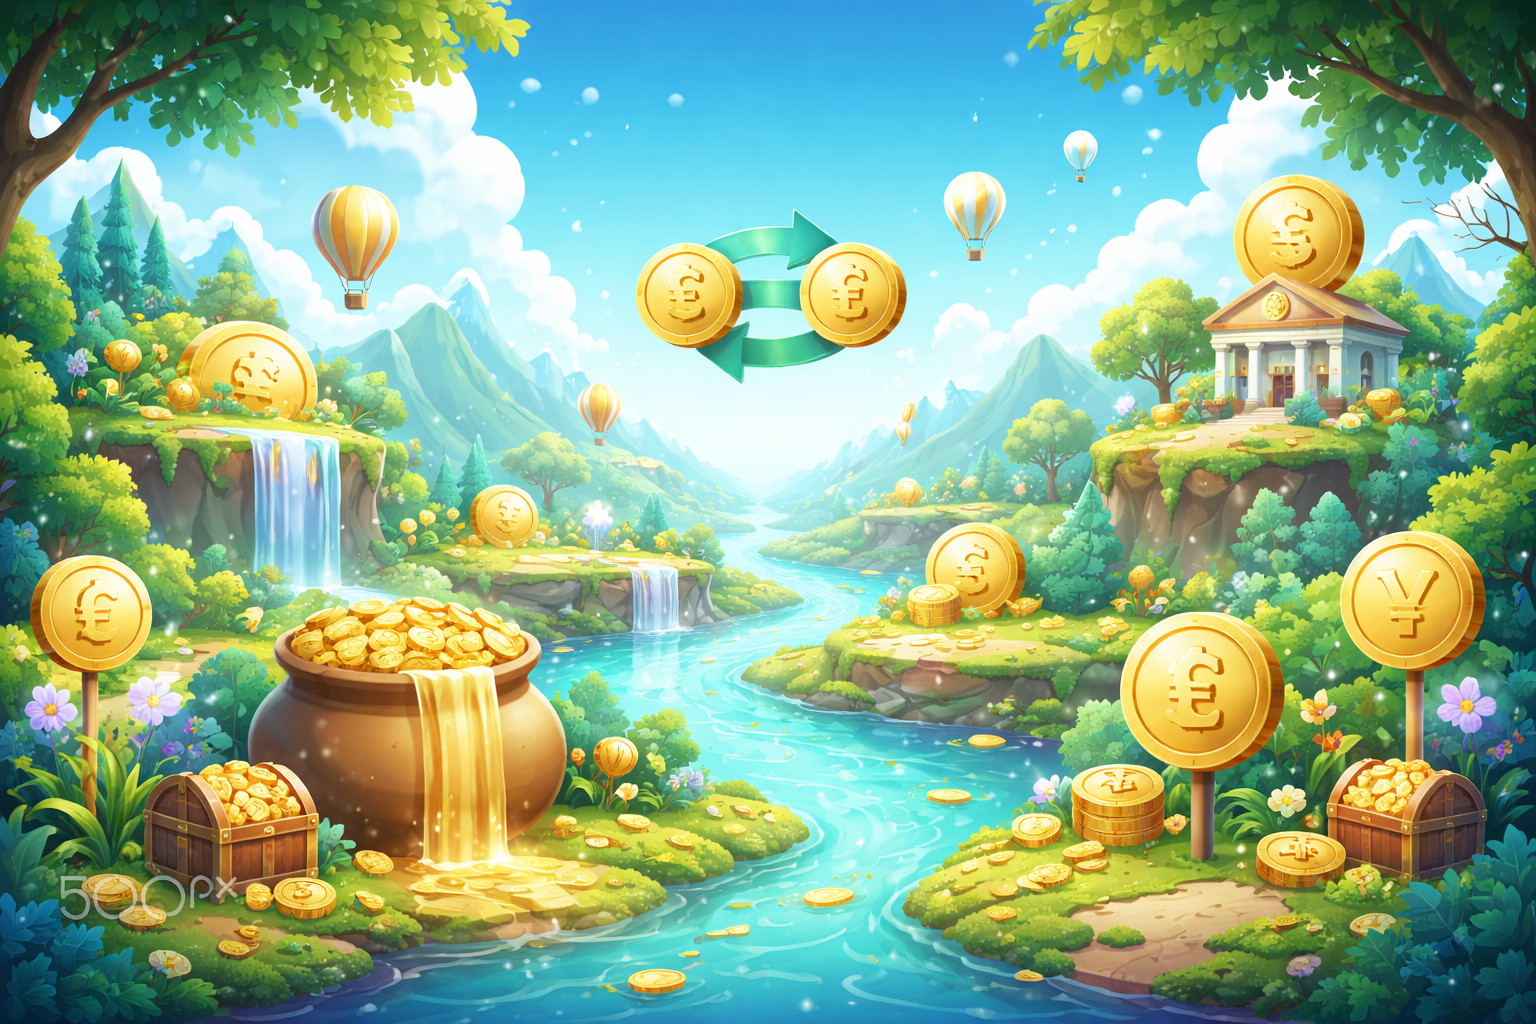
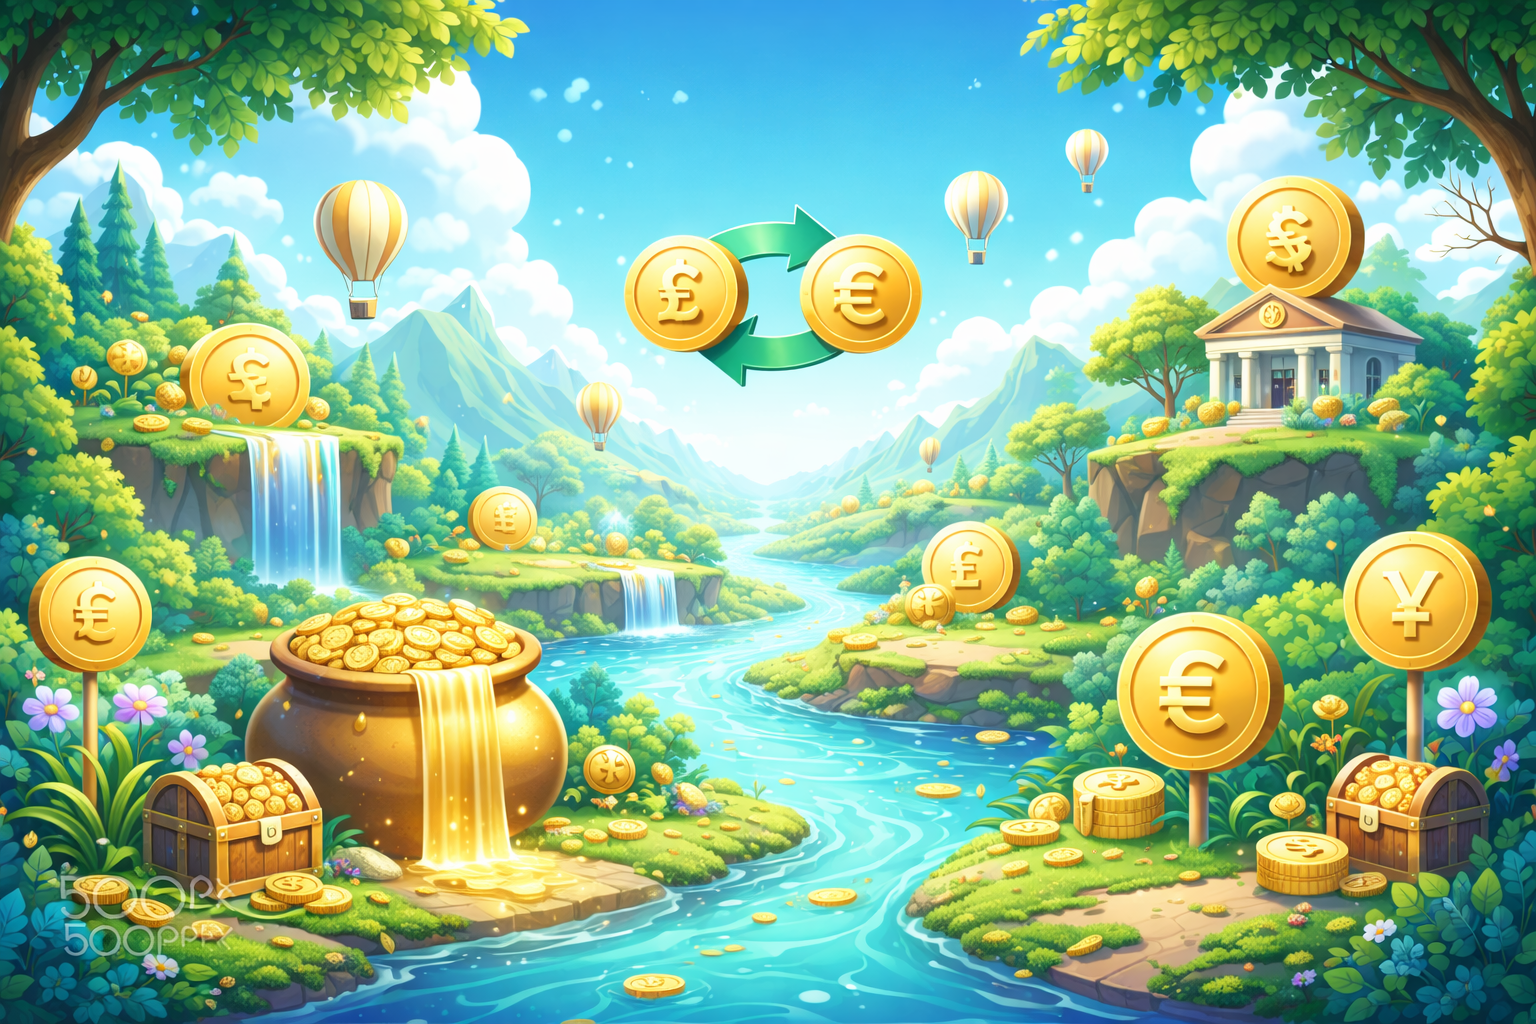
Wise affiliate

diff --git a/scripts.js b/scripts.js
@@ -41,7 +41,7 @@ let currencies = [
   ["AUD - Australian Dollar", "au", "AUD"],
   ["AWG - Aruban Florin", "aw", "AWG"],
   ["AZN - Azerbaijani Manat", "az", "AZN"],
-  ["BAM - Bosnia-Herzegovina Convertible Mark", "ba", "BAM"],
+  ["BAM - Bosnia-Herz. Conv. Mark", "ba", "BAM"],
   ["BBD - Barbadian Dollar", "bb", "BBD"],
   ["BDT - Bangladeshi Taka", "bd", "BDT"],
   ["BGN - Bulgarian Lev", "bg", "BGN"],
@@ -451,10 +451,28 @@ const AFFILIATE_CONFIG = {
   // Add more as you get affiliate partnerships
 };
 
+// Build Wise affiliate link with deeplink for dynamic currency and amount
+function buildWiseAffiliateLink(sourceCurrency, targetCurrency, amount) {
+  // The actual Wise page you want to send users to
+  const wiseDestination = `https://wise.com/send?sourceCurrency=${sourceCurrency}&targetCurrency=${targetCurrency}&sourceAmount=${amount}`;
+
+  // Your FULL Partnerize affiliate link
+  const affiliateBase = "https://wise.prf.hn/click/camref:1101l3RA2L";
+
+  // Encode the destination URL for the deeplink parameter
+  const encodedDestination = encodeURIComponent(wiseDestination);
+
+  // Add pubref to track that this came from your comparison tool
+  const pubref = `comparison-${sourceCurrency}-${targetCurrency}-${amount}`;
+
+  // Build complete affiliate link with pubref and deeplink
+  return `${affiliateBase}/pubref:${pubref}/destination:${encodedDestination}`;
+}
+
 // Get provider URL based on provider info with affiliate tracking
 function getProviderUrl(provider, sourceCurrency, targetCurrency, amount) {
   const baseUrls = {
-    39: `https://wise.com/send?sourceCurrency=${sourceCurrency}&targetCurrency=${targetCurrency}&sourceAmount=${amount}`, // Wise
+    39: buildWiseAffiliateLink(sourceCurrency, targetCurrency, amount), // Wise dynamic affiliate link with tracking
     6: `https://www.paypal.com/myaccount/transfer/fx/calculator?from=${sourceCurrency}&to=${targetCurrency}&amount=${amount}`, // PayPal
     23: `https://www.moneygram.com/mgo/us/en/send?amount=${amount}&sourceCurrency=${sourceCurrency}&destinationCurrency=${targetCurrency}`, // MoneyGram
     44: `https://www.revolut.com/send-money/?from=${sourceCurrency}&to=${targetCurrency}&amount=${amount}`, // Revolut
@@ -589,6 +607,15 @@ async function fetchWise() {
       data = await response.json();
       timestamp = Date.now();
 
+      // Debug: Log full Wise provider data to see all available fields
+      const wiseProviderData = data.providers?.find((p) => p.id === 39);
+      if (wiseProviderData) {
+        console.log(
+          "🔍 Full Wise Provider Object:",
+          JSON.stringify(wiseProviderData, null, 2),
+        );
+      }
+
       // Cache the response
       setCachedData(sourceCurrency, targetCurrency, amount, data);
     } catch (error) {
@@ -602,7 +629,14 @@ async function fetchWise() {
   }
   // Process the data (whether cached or fresh)
   const providers = data.providers;
-  const filterbyID = [39, 6, 23, 22, 121, 127]; // Removed 44 (Revolut) - adding manually
+  const filterbyID = [
+    39, // Wise
+    6, // PayPal
+    23, // MoneyGram
+    22, // Western Union
+    121, // Paysera
+    127, // Payoneer
+  ]; // Note: 44 (Revolut) is added manually with estimated rates
   const filteredProviders = providers.filter((provider) =>
     filterbyID.includes(provider.id),
   );
@@ -770,21 +804,81 @@ async function fetchWise() {
 
     const linkCell = document.createElement("td");
 
-    // Replace "Go" button with badges for top 3 deals
+    // Replace "Go" button with badges for top 3 deals - but make them clickable links
     if (rowIndex === 1) {
-      const bestDealLink = document.createElement("span");
+      const bestDealLink = document.createElement("a");
+      bestDealLink.href = getProviderUrl(
+        provider,
+        sourceCurrency,
+        targetCurrency,
+        amount,
+      );
       bestDealLink.className = "best-deal-link";
       bestDealLink.innerHTML = "🏆 Best Deal";
+      bestDealLink.target = "_blank";
+      bestDealLink.rel = "noopener noreferrer";
+
+      // Add click tracking
+      bestDealLink.addEventListener("click", () => {
+        trackProviderClick(
+          provider.name,
+          provider.id,
+          sourceCurrency,
+          targetCurrency,
+          amount,
+        );
+      });
+
       linkCell.appendChild(bestDealLink);
     } else if (rowIndex === 2) {
-      const greatDealLink = document.createElement("span");
+      const greatDealLink = document.createElement("a");
+      greatDealLink.href = getProviderUrl(
+        provider,
+        sourceCurrency,
+        targetCurrency,
+        amount,
+      );
       greatDealLink.className = "great-deal-link";
       greatDealLink.innerHTML = "GREAT DEAL";
+      greatDealLink.target = "_blank";
+      greatDealLink.rel = "noopener noreferrer";
+
+      // Add click tracking
+      greatDealLink.addEventListener("click", () => {
+        trackProviderClick(
+          provider.name,
+          provider.id,
+          sourceCurrency,
+          targetCurrency,
+          amount,
+        );
+      });
+
       linkCell.appendChild(greatDealLink);
     } else if (rowIndex === 3) {
-      const goodDealLink = document.createElement("span");
+      const goodDealLink = document.createElement("a");
+      goodDealLink.href = getProviderUrl(
+        provider,
+        sourceCurrency,
+        targetCurrency,
+        amount,
+      );
       goodDealLink.className = "good-deal-link";
       goodDealLink.innerHTML = "GOOD DEAL";
+      goodDealLink.target = "_blank";
+      goodDealLink.rel = "noopener noreferrer";
+
+      // Add click tracking
+      goodDealLink.addEventListener("click", () => {
+        trackProviderClick(
+          provider.name,
+          provider.id,
+          sourceCurrency,
+          targetCurrency,
+          amount,
+        );
+      });
+
       linkCell.appendChild(goodDealLink);
     } else {
       const link = document.createElement("a");

diff --git a/styles.css b/styles.css
@@ -507,16 +507,6 @@ li .selected {
   background-color: #fffef5;
 }
 
-.silver-deal-row {
-  border-left: 4px solid #c0c0c0;
-  background-color: #f8f8f8;
-}
-
-.bronze-deal-row {
-  border-left: 4px solid #cd7f32;
-  background-color: #fff8f0;
-}
-
 .amount-display {
   display: flex;
   flex-direction: column;

diff --git a/index.html b/index.html
@@ -14,7 +14,7 @@
 <body>
     <!-- Sliding Banner -->
     <div id="slidingBanner" class="sliding-banner">
-        <div class="banner-header">Save money! 💵 Check out the best exchange rates in the EU ...</div>
+        <div class="banner-header">Ditch the banks! 💵 Compare the best exchange rates in Europe ...</div>
         <div class="banner-content">
             <span class="banner-icon">💵</span>
             <span class="banner-text">Enter amount</span>